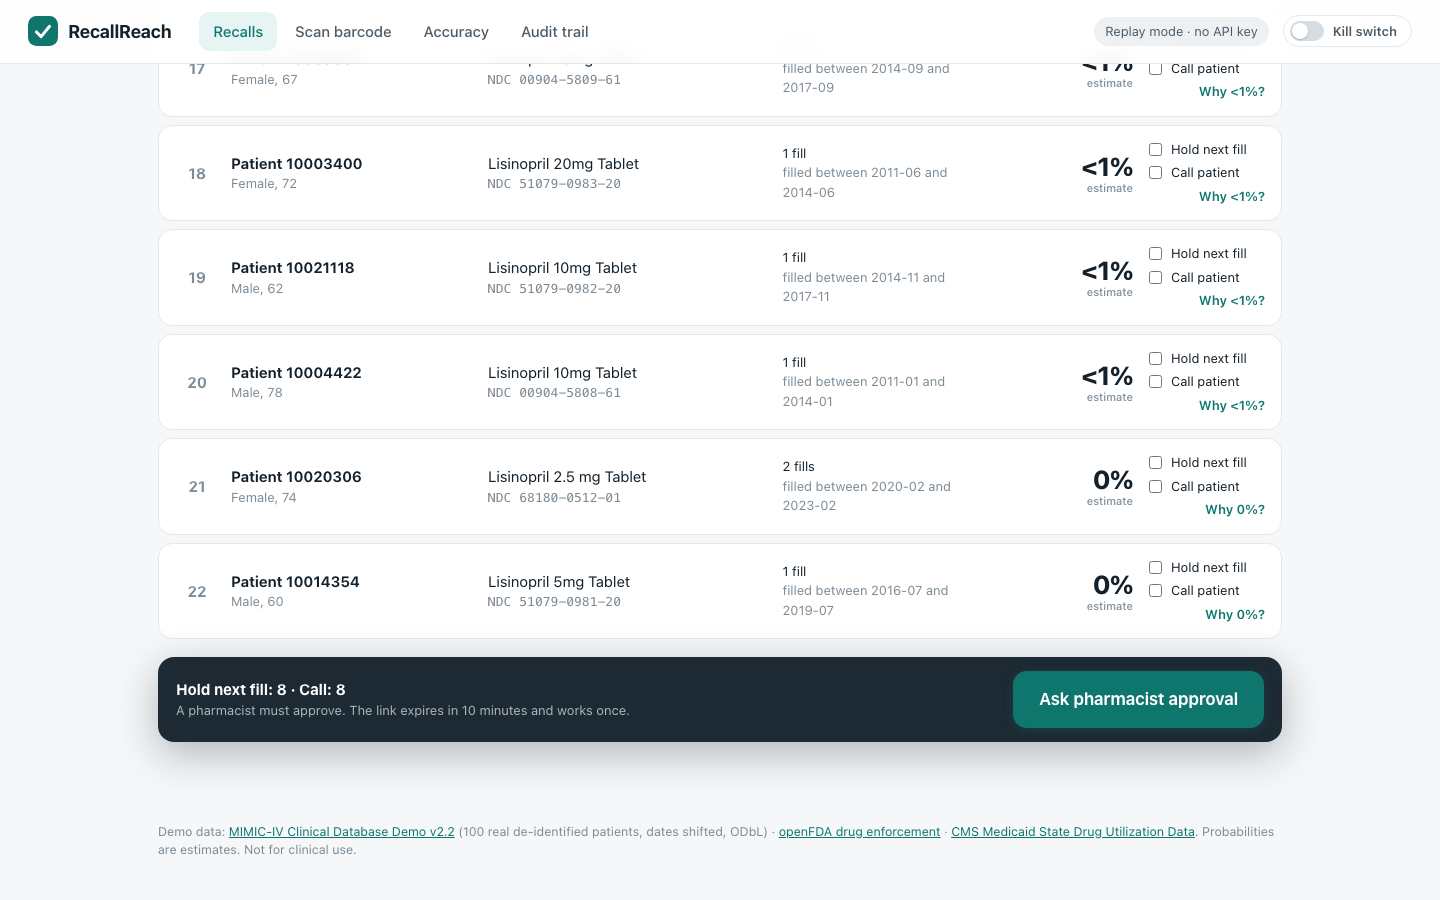
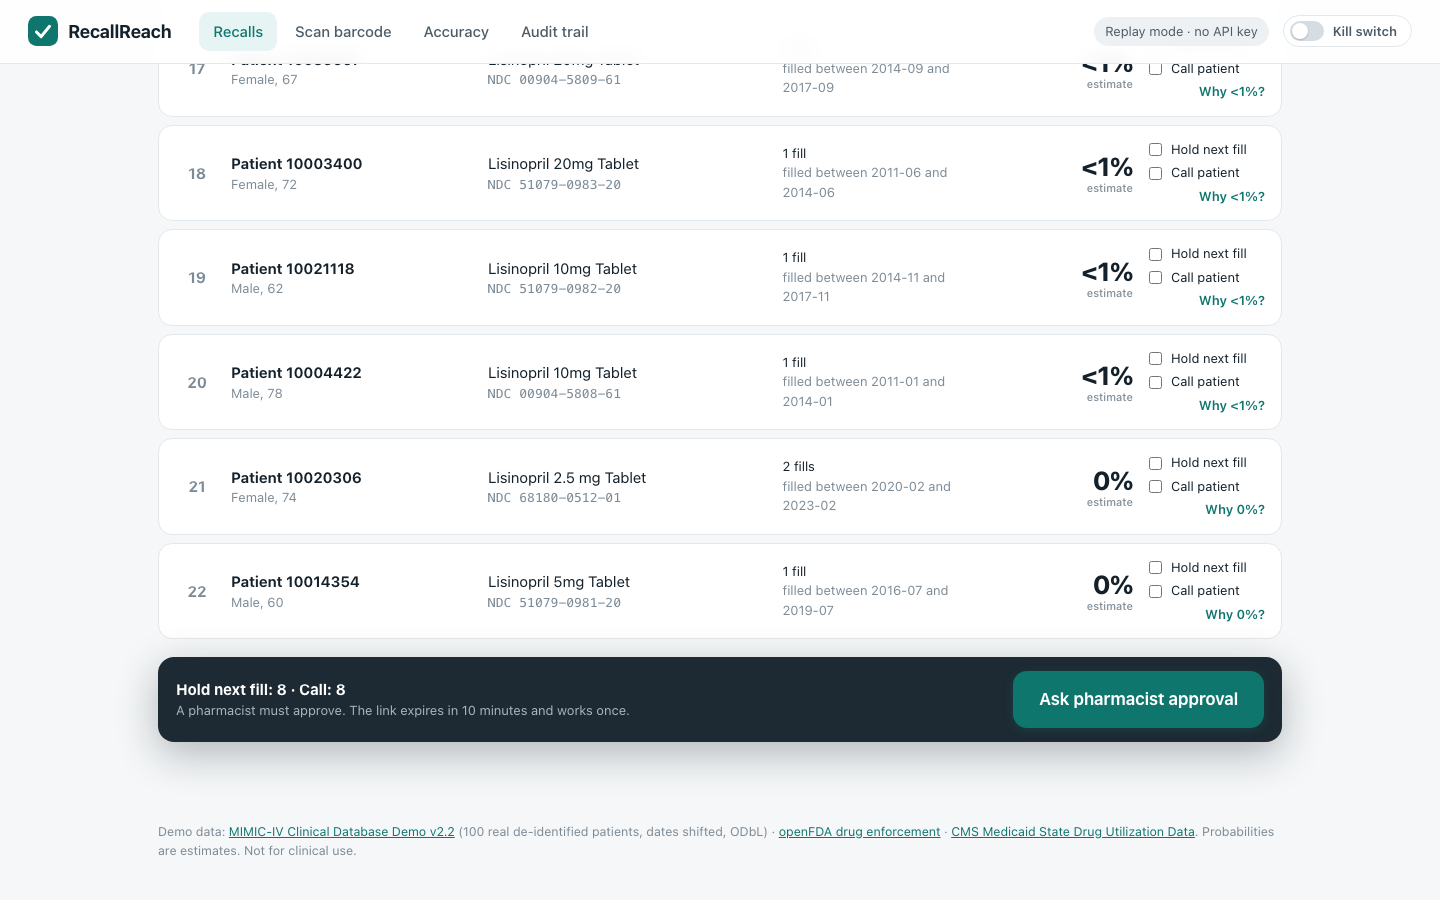
README, LICENSE, module.xml, video-scenario screenshots

diff --git a/web/app.css b/web/app.css
@@ -14,7 +14,7 @@ button{font:inherit;cursor:pointer}
 .brand{display:flex;align-items:center;gap:10px;font-weight:700;font-size:18px;color:var(--ink);text-decoration:none;letter-spacing:-.01em}
 .logo{width:30px;height:30px;color:var(--brand)} .logo svg{width:30px;height:30px;display:block}
 .tabs{display:flex;gap:4px}
-.tabs a{padding:8px 14px;border-radius:10px;color:var(--ink2);text-decoration:none;font-weight:500}
+.tabs a{white-space:nowrap;padding:8px 14px;border-radius:10px;color:var(--ink2);text-decoration:none;font-weight:500}
 .tabs a.on{background:var(--brandbg);color:var(--brand)}
 .tabs a:hover{background:var(--graybg)}
 .right{margin-left:auto;display:flex;align-items:center;gap:14px}

diff --git a/README.md b/README.md
@@ -1,0 +1,149 @@
+# RecallReach
+
+**An FDA drug recall arrives. An IRIS AI Hub agent reads it, checks the pharmacy's records with a tool, and decides what to do. RecallReach then ranks the patients who may have the recalled pills in one list, by estimated probability. A pharmacist approves holds and phone calls through the IRIS Workflow Engine. The approval expires in 10 minutes and works once. A kill switch stops everything, and every step is in the audit trail and in Visual Trace.**
+
+![Patient list after "Find patients"](_screens/06_patient_list_top.png)
+
+- Real data: 100 real de-identified patients and 18,087 dispensing records from MIMIC-IV Demo, 647 real openFDA recalls, CMS Medicaid volumes.
+- Runs with **no API key** (replay mode) on the first `docker compose up`. Set one env var for the live Anthropic model.
+- Built on **IRIS for Health Community 2027.1.0AI build 109** (`2027.1.0AI.109.0`, arm64). Build 154 was taken off the portal; organizers said 109 is fine if the README says so.
+
+## Quick start (3 commands)
+
+The AI Hub image is on the InterSystems early-access portal, not on Docker Hub. Load it once:
+
+```bash
+docker image load -i irishealth_arm64-community-2027.1.0AI.109.0-docker.tar.gz   # or the amd64 file
+docker images | grep irishealth-community                                          # see the name it got
+docker tag <that name>:2027.1.0AI.109.0 intersystems/irishealth-community:2027.1.0AI.109.0
+```
+
+Then:
+
+```bash
+git clone <this repo> && cd recallreach
+docker compose up -d --build        # ~3 min the first time: compiles, loads data, runs 6 recalls through the production
+open http://localhost:52795/recallreach/
+```
+
+No login for the app. Management Portal: http://localhost:52795/csp/sys/UtilHome.csp (`_SYSTEM` / `SYS`), production `RecallReach.Production` in namespace `USER`.
+
+Live LLM (optional): `cp .env.example .env`, put your key in `ANTHROPIC_API_KEY`, `docker compose up -d`. The header then shows "Live AI Hub agent · claude-haiku-5-5". Spend is capped by `RR_SPEND_CAP_USD` (default $5). The key is read from the container environment only; it is never logged, stored or sent to the browser.
+
+## Try it (2 minutes)
+
+1. **Scan barcode** tab: *Use a sample barcode* -> *Read barcode* -> *Record lot here* on patient 10002428. (This plays the pharmacist who scanned the box when filling it.)
+2. **Recalls** tab: *Simulate new FDA recall*. A real FDA recall (D-1226-2015, Lisinopril 5 mg) arrives; the AI Hub agent reads it.
+3. Open it: the notice is on the left, the fields the agent extracted on the right. Click a field to see its evidence. Low-confidence fields are yellow.
+4. *Find patients*: the list spins and stops on the top patient. Press *Why 91%?* on any row for the formula and sources.
+5. *Ask pharmacist approval* -> *Approve*. Press it again: refused, the link is single use. Wait 10 minutes: expired.
+6. Turn on the **Kill switch**: the agent, the feed, approvals and actions all stop.
+7. **Audit trail** and **Accuracy** tabs. Each audit row links to Visual Trace.
+
+## How it works
+
+```mermaid
+flowchart LR
+  A[RecallFeed<br/>custom inbound adapter<br/>queue / openFDA live] --> B[RecallTriage BPL]
+  B --> C[RecallReaderAgent BO<br/>EnsLib.AI.Agent.OutboundAdapter<br/>IRIS AI Hub agent]
+  C -- tool call --> T[(LookupDispensed tool<br/>read-only counts)]
+  B --> D[PatientMatcher BO<br/>SQL + IRIS Vector Search<br/>+ Embedded Python]
+  UI[Web UI / REST] --> E[ApprovalIntake BS]
+  E --> F[ApprovalFlow BPL]
+  F --> G[Pharmacist<br/>EnsLib.Workflow.Operation<br/>10-minute timeout]
+  F --> H[ActionExecutor BO<br/>holds + call list]
+```
+
+| Production item | Class | What it does |
+|---|---|---|
+| RecallFeed | `RecallReach.Service.RecallFeed` + `RecallReach.Adapter.RecallFeedInboundAdapter` (custom) | Takes recalls from the demo queue, or polls `api.fda.gov` (`Source=openfda-live`). Stops while the kill switch is on. |
+| RecallTriage | BPL | agent -> (if action is not `no_action`) matcher -> status |
+| RecallReaderAgent | `RecallReach.Operation.RecallReaderAgent` + `RecallReach.Adapter.AgentAdapter` (extends `EnsLib.AI.Agent.OutboundAdapter`) | Runs `RecallReach.AI.RecallReaderAgent` (`%AI.Agent`, provider `anthropic`, model `claude-haiku-5-5`). The agent extracts ingredient, strength, form, labeler, NDCs, lots, expiry and distribution with verbatim evidence, calls the `LookupDispensed` tool, and decides `hold_and_contact` / `stock_check` / `no_action`. |
+| PatientMatcher | `RecallReach.Operation.PatientMatcher` | Exact NDC (SQL index), same product code, and ingredient match through IRIS Vector Search (`VECTOR_COSINE` on drug-name vectors). Probability in Embedded Python. |
+| ApprovalIntake, ApprovalFlow | BS + BPL | Workflow task to role `Pharmacist`, `<sync timeout=615>`; on approve calls ActionExecutor, on timeout marks the approval expired. |
+| Pharmacist | `EnsLib.Workflow.Operation` | IRIS Workflow Engine (AutoCreateRole). |
+| ActionExecutor | `RecallReach.Operation.ActionExecutor` | Re-checks the kill switch and the approval state, flags next fills on hold, writes the call list. |
+| BenchmarkRunner | BS | Sends benchmark recalls to the agent for live accuracy runs. |
+
+### The agent's decision
+
+- **Inputs**: only the free text of the FDA notice. FDA's harmonized `openfda` block (its NDC list) is hidden from the agent and used only to grade it.
+- **Tool**: `RecallReach.AI.PharmacyTools.LookupDispensed(ndcs, ingredient)`, a `%AI.Tool` registered on the agent's `ToolManager`. Returns counts only, no patient ids.
+- **Policies** (adapter settings): `RecallReach.AI.KillSwitchPolicy` (`%AI.Policy.Authorization`: no tool runs while the kill switch is on) and `RecallReach.AI.ToolAudit` (`%AI.Policy.Audit`: every tool call goes to the audit trail).
+- **Guard rails**: every value must quote verbatim evidence from the notice; values whose evidence is not in the notice are marked low confidence and are not used for matching. A non-JSON reply is an error, not a silent pass. The plan a pharmacist approves can only contain patients from the ranked list.
+
+### LLM calls traced as Interoperability messages (Ideas Portal DPI-I-689)
+
+Every LLM call is an `AgentRequest` / `AgentResponse` message pair: prompt, raw reply, provider, model, tokens, cost, latency, decision, low-confidence count. Open any session in Visual Trace, or the LLM table on the Accuracy page.
+
+### Replay mode (no key)
+
+With no `ANTHROPIC_API_KEY`, the adapter creates the same AI Hub `anthropic` provider with `base_url` pointing to `/recallreach/replay/v1/` on this IRIS instance (local requests only). That endpoint speaks the Anthropic Messages API: it first asks for the `LookupDispensed` tool like the live model does, then answers with a recorded live reply for that recall if one exists in `data/recordings/`, or else with a deterministic rule-based reference reply. So `%AI.Agent.Chat`, tool execution, policies, sessions and token stats all run for real. The UI labels which source produced each answer.
+
+### The probability (an estimate, shown with its sources)
+
+```
+P(fill)    = product match x time on shelf x lot share x region
+P(patient) = 1 - product(1 - P(fill))  over that patient's fills
+```
+
+| Factor | Value | Source |
+|---|---|---|
+| Product match | 1.0 same NDC; 0.9 same product code, other package; 0.25 no NDC on record but same ingredient+strength; 0.02 same ingredient+strength but a different NDC (only if the record is wrong); 0.005 other strength | FDA notice vs dispensing record |
+| Time on shelf | share of the patient's possible real fill dates that falls in the lot window (expiry minus 24-month shelf life, until the recall started) | MIMIC `anchor_year_group` (MIMIC shifts dates; the real date is only known within ~3 years) + FDA lot/expiry |
+| Lot share | recalled quantity / Medicaid units for that NDC in the window, capped at 100% (solid oral forms only; Medicaid counts mL/g for others, so a 50% heuristic is used and labelled) | openFDA `product_quantity` + CMS Medicaid State Drug Utilization Data (cached in `data/sdud_cache.json`) |
+| Region | 1.0 nationwide or includes MA; 0.05 outside; 0.7 not stated | FDA `distribution_pattern` (MIMIC is from Boston) |
+| **Barcode lot** | if the GS1 DataMatrix was scanned at dispensing: exactly 1 (lot on the recall) or 0 | `(01)` GTIN, `(17)` expiry, `(10)` lot, `(21)` serial |
+
+Rows under 5% are folded into "n low-likelihood hidden". Medicaid covers only part of US dispensing, so the lot share over-states the true share; the UI says so on every row.
+
+## Numbers you can check
+
+- Demo recall **D-1226-2015** (Class II, Lisinopril 5 mg unit-dose tablets, American Health Packaging / Wockhardt, lot 131928 exp 2015-09-30, 4,718 cartons, nationwide). 22 MIMIC patients had a lisinopril fill; 8 shown, 14 hidden; 7 got the exact recalled NDC 68084-0060-01. Top without a barcode: patient 10015860, 91%. With the lot scanned for patient 10002428: 100%, "Lot confirmed".
+- 372 of 18,076 openFDA drug recalls share an NDC with the 100 MIMIC demo patients.
+- **Accuracy** (Accuracy tab, 300 random recalls that carry FDA's NDC list, fixed seed): the rule-based reference finds an FDA product NDC in **99.7%**, an exact package NDC in **99.7%**, extracts no NDC that FDA does not list in **300/300**, and its ingredient matches FDA's generic name in **78.7%** (brand names like "Kids' Cough and Chest Congestion" are its weak spot). Live LLM accuracy is not in this build because no key was available at build time: run `tools/run_benchmark.sh` with a key (about $0.0004 per recall with claude-haiku-5-5) and the page shows it next to the rule-based numbers, wrong cases included.
+
+## Tests
+
+```bash
+./tools/run_tests.sh
+```
+
+- 27 Python unit tests (`python/tests/test_core.py`, run with IRIS's `irispython`): NDC layouts, GS1 parsing (human-readable, raw with group separator, `]d2` prefix, day 00), extraction on a real recall, hallucinated evidence, JSON reply parsing, MIMIC date windows, lot window, lot share cap and heuristic, exact lot confirmed/cleared, ranking and hidden tail, vectors, accuracy scoring.
+- ObjectScript `%UnitTest` `RecallReach.Tests.ApprovalTest`: token stored only as SHA-256, 10-minute expiry, single use (approve twice, reject after approve), kill switch cancels pending approvals and refuses new ones, reject needs a reason, plan only from the ranked list, audit rows cannot be edited, replay + validation bridge, GS1 bridge, time arithmetic.
+- `tools/screens.mjs`: headless Playwright walk-through of the whole demo (screenshots in `_screens/`).
+
+## Bonus checklist
+
+| Bonus | Where |
+|---|---|
+| Embedded Python | `python/recallreach_core` (extraction, GS1, probability, vectors) called from `RecallReach.Core.Py` |
+| Workflow Engine | `Pharmacist` = `EnsLib.Workflow.Operation`, `ApprovalFlow` BPL |
+| Custom adapter | `RecallReach.Adapter.RecallFeedInboundAdapter` (inbound), `RecallReach.Adapter.AgentAdapter` (outbound, extends the AI Hub adapter) |
+| Vector Search | `RecallReach.Data.DrugName.Vec` (`%Vector`, 128-d), `VECTOR_COSINE` in `RecallReach.Core.Py.Match` |
+| Docker | `Dockerfile`, `docker-compose.yml` |
+| IPM | `module.xml` |
+| Community idea DPI-I-689 | LLM calls as Interoperability messages (`RecallReach.Msg.AgentRequest/AgentResponse`) |
+
+## Data and privacy
+
+- Patients: MIMIC-IV Clinical Database Demo v2.2 (PhysioNet, ODbL v1.0), 100 real de-identified patients. No names; dates are shifted by MIMIC; ages over 89 are capped by MIMIC. Derived data in `data/` stays under ODbL (see LICENSE).
+- Recalls: openFDA drug enforcement (public domain). Volumes: CMS Medicaid State Drug Utilization Data.
+- The demo has no login and holds no real pharmacy data. Do not put real patient data in it.
+- Not for clinical use. Probabilities are estimates.
+
+## Limits, honestly
+
+- MIMIC is a hospital, not a retail pharmacy, and has no lot numbers; the lot path is shown by scanning a sample barcode (generated by the app, not a real package serial).
+- MIMIC dates are shifted, so "when" is only known within a ~3-year window; this is why the time factor exists.
+- Live LLM accuracy was not measured in this build (no key at build time).
+- `module.xml` is written for IPM but was not installed with IPM in this environment (IPM is not in the AI Hub image); Docker is the tested path.
+
+## Files
+
+- `src/RecallReach/` ObjectScript: `AI/` agent, tool, policies; `Adapter/`; `Service/`; `Process/` BPLs; `Operation/`; `API/` REST + replay; `Core/` setup, approvals, config; `Data/` tables; `Tests/`
+- `python/recallreach_core/` Embedded Python core, `python/tests/`
+- `web/` UI (plain HTML/CSS/JS, served by IRIS)
+- `data/` shipped data, `tools/` data prep, SDUD fetch, tests, screenshots, live benchmark
+
+License: MIT (code). Data: see LICENSE.
